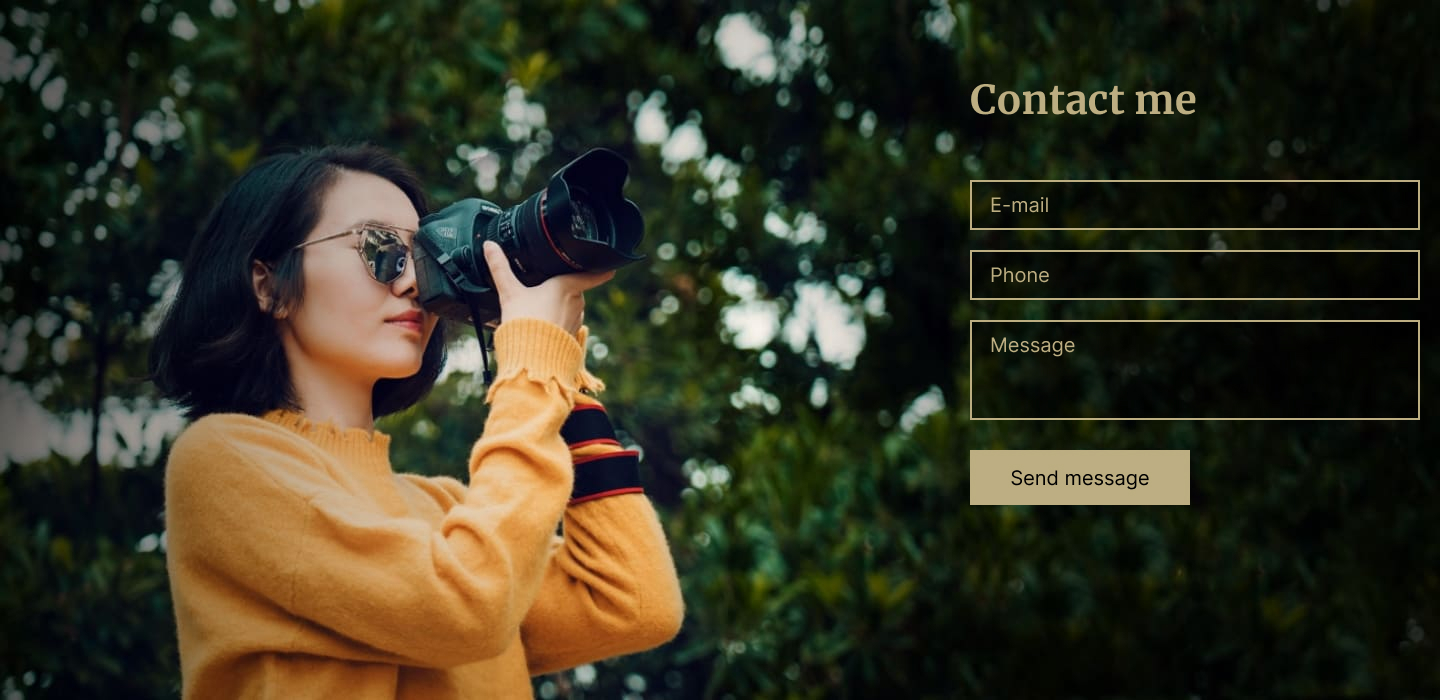
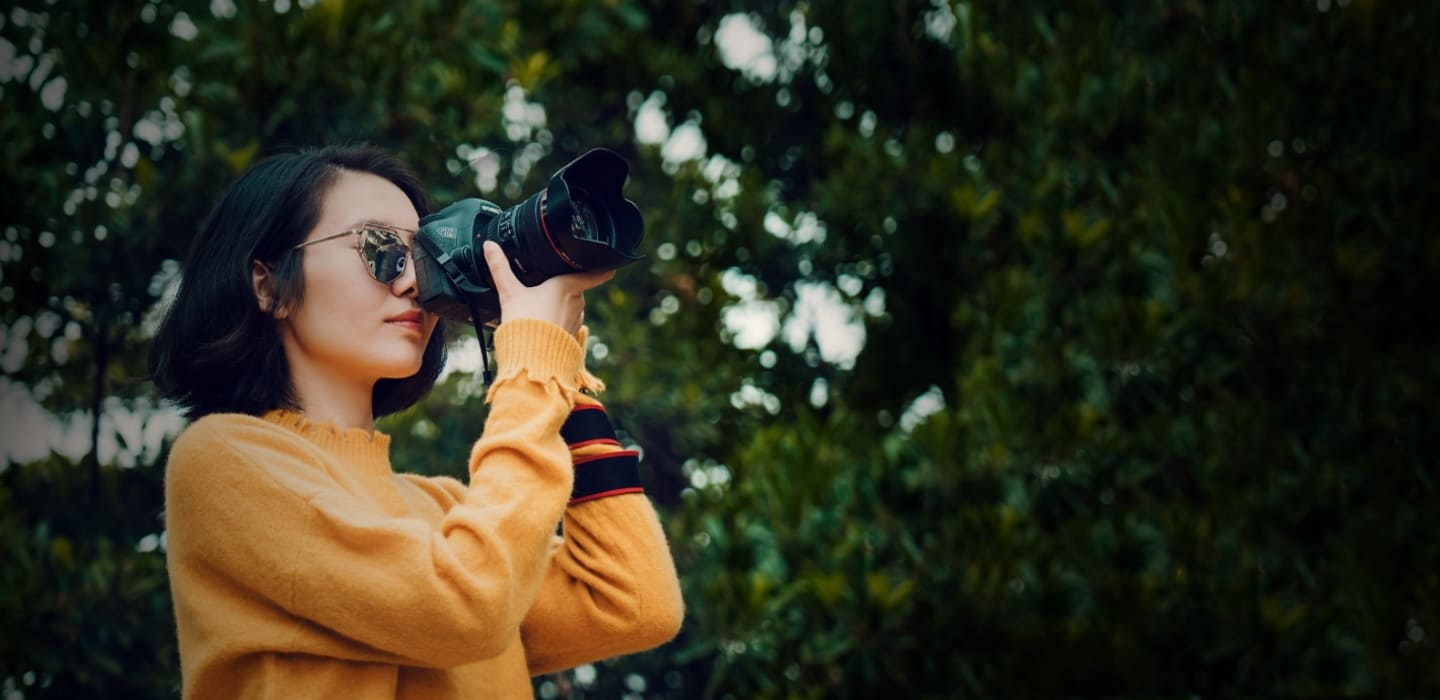
feat: start stage 2 portfolio

diff --git a/portfolio/asset/css/input.css b/portfolio/asset/css/input.css
@@ -71,7 +71,7 @@ p {
 
 
 .container {
-  width: 1440px;
+  max-width: 1440px;
   margin: 0 auto;
   padding: 0 20px;
   box-sizing: border-box;
@@ -154,7 +154,6 @@ p {
   background-size: contain;
   background-repeat: no-repeat;  
   transition: 0.3s;
-  margin-right: 780px;
   height: 50px;
 }
 
@@ -218,9 +217,8 @@ a:hover, a:focus, a:active {
 /* Hero styles start */
 
 .section__hero {
- background: url(../img/bg.png) no-repeat center 0;
+ background: url(../img/bg.jpg) no-repeat center 0;
   margin: 0 -20px; 
-  height: 910px;
 }
 
 .hero__box {
@@ -228,6 +226,7 @@ a:hover, a:focus, a:active {
   padding-top: 250px;
   height: 330px;
   max-width: 500px;
+  padding-bottom: 330px;
 }
 
 p.hero-text {
@@ -267,8 +266,12 @@ p.hero-text {
 
 /* skills styles start */
 
-.section__skills {
-  height: 482px;
+.skills__wraper {
+  display: flex;
+  flex-wrap: wrap;
+  justify-content: space-around;
+  align-items: center;
+  padding: 0px;
 }
 
 h2.section-title {
@@ -315,15 +318,6 @@ h2.section-title {
   right: -14px;
 }
 
-.skills__wraper {
-  display: flex;
-  flex-wrap: wrap;
-  /* justify-content: space-between; */
-  align-items: center;
-  padding: 0px;
-  height: 242px;
-}
-
 .skills__box {
   display: flex;
   flex-direction: column;
@@ -331,6 +325,7 @@ h2.section-title {
   max-width: 320px;
   height: 240px;
   align-items: center;
+  margin-bottom: 2px;
 }
 
 .skills__box:first-child {
@@ -371,6 +366,7 @@ p.text__box {
 
 .button-switcher {
   display: flex;
+  flex-wrap: wrap;
   justify-content: center;
   margin-bottom: 60px;
 }
@@ -416,14 +412,12 @@ p.text__box {
   flex-wrap: wrap;
   justify-content: space-between;
   gap: 25px;
-  max-height: 1145px;
-  /* align-content: space-between; */
 }
 
-.portfolio__img {
-  /* min-height: 560px; */
-  /* padding-top: 2px; */
-  /* padding-bottom: 0; */
+@media (max-width: 720px) {
+  .portfolio__imgs {
+    justify-content: space-around;
+  }
 }
 
 /* portfolio syles end */
@@ -440,21 +434,26 @@ p.text__box {
 }
 
 .section__video {
-  height: 945px;
+  
+
 }
 
 .img__video {
-
+  /* display: flex; */
+  width: 100%;
 }
 
 .video__play {
-  position: absolute;
+  /* display: flex; */
+  
   padding-top: 8px;
 }
 
 .button-play {
+  position: absolute;
   background-color: transparent;
   border: 0;
+  cursor: pointer;
 }
 
 .icon {
@@ -475,8 +474,8 @@ p.text__box {
 
 .price__container {
   display: flex;
+  flex-wrap: wrap;
   box-sizing: border-box;
-  /* margin-bottom: 100px; */
 }
 
 .price__box {
@@ -508,7 +507,6 @@ h3.price-title {
 }
 
 .button.button__gold {
-  /* padding: 8px 73px; */
   background-color: var(--gold-color);
   color: var(--bg-dark-color);
   margin: 0 112px;
@@ -555,27 +553,30 @@ h3.price-title {
 /* contacts syles start */
 
 .section__contacts {
-  display: flow-root;
-  min-height: 700px;
-  background: url(../img/contacts.png) no-repeat center;
+  background: url(../img/contacts.jpg) no-repeat center;
+  /* width: 100%; */
   background-size: cover;
+  /* margin-right: 20px; */
   margin: 0 -20px;
 }
 
 .contact__field {
-  position: relative;
-  left: 970px;
-  top: 60px;
-  width: 450px;
-  height: 445px;
+  display: flex;
+  justify-content: flex-end;
+  flex-wrap: wrap;
+  padding-top: 60px;
   margin-right: 20px;
+  padding-bottom: 195px;
+}
+
+.contact__field-inputs {
+  width: 450px;
 }
 
 .contact-title {
   width: 450px;
   height: 80px;
   margin-bottom: 40px;
-  /* text-align: start; */
 }
 
 h2.contact-title {
@@ -600,7 +601,7 @@ h2.contact-title {
   font-size: 20px;
   line-height: 40px;
   color: #BDAE82;
-  padding-left: 20px;
+  padding-left: 18px;
   margin-bottom: 20px;
 }
 
@@ -622,18 +623,21 @@ h2.contact-title {
   font-size: 20px;
   line-height: 40px;
   color: #BDAE82;
-  padding-left: 20px;
+  padding-left: 18px;
   margin-bottom: 26px;
+  
 }
 
-.message::placeholder {
+ .message::placeholder {
   font-family: Inter;
   font-style: normal;
   font-weight: normal;
   font-size: 20px;
   line-height: 40px;
   color: #BDAE82;
+  padding-top: 2px;
 }
+
 
 .input-form::placeholder {
   font-family: Inter;
@@ -642,14 +646,8 @@ h2.contact-title {
   font-size: 20px;
   line-height: 40px;
   color: #BDAE82;
-}
-
-input:-webkit-autofill,
-input:-webkit-autofill:hover,
-input:-webkit-autofill:focus,
-input:-webkit-autofill:active {
-  -webkit-text-fill-color: #bdae82;
-  transition: background-color 0s ease-in-out 9000s;
+  padding-top: 2px;
+  
 }
 
 /* contacts syles end */
@@ -686,8 +684,8 @@ input:-webkit-autofill:active {
   color: #FFFFFF
 }
 
-.left__block-item:hover, .left__block-item:visited,
-.left__block-item:focus {
+ .target:hover, .target:visited,
+ .target:focus {
   color: var(--gold-color);
   transition-duration: .5s;
 }
@@ -725,18 +723,30 @@ p.centre__block {
   height: 32px;
 }
 
-.right__block-img {
+a.right__block-img {
   display: flex;
   align-items: center;
-  padding-right: 20px;
 }
 
 .right__block {
    display: flex;
 }
 
-.right__block-img:last-child {
+ul.right__block-list {
+  display: flex;
+  flex-direction: row;
+  padding-left: 0;
+}
+
+
+.item {
+  display: flex;
+  align-items: center;
+  padding-right: 20px;
+}
+
+.right__block-list.item:last-child {
   padding-right: 0;
-} 
+}  
 
 /* footer syles end */

diff --git a/portfolio/index.html b/portfolio/index.html
@@ -140,13 +140,12 @@
           
             <img class='img__video' src="asset/img/video-player.jpg" alt="videopalyer">
         
-          <div class="video__play">
             <button class="button-play" type="submit">
               <svg class="icon">
                 <use xlink:href="asset/icon/Play_hover.svg#play"></use>
               </svg>
             </button>
-          </div>
+          
         </div>
       </section>
       <section class="section__price" id="price">
@@ -230,13 +229,15 @@
       </section>
       <section class="section__contacts" id="contacts">
         <div class="contact__field">
-          <h2 class="section-title contact-title">Contact me</h2>
-          <form>
-            <input type="email" placeholder="E-mail" class="input-form">
-            <input name="tel" type="tel" placeholder="Phone" class="input-form">
-            <textarea class="message"  name="text" placeholder="Message"></textarea>
-            <button type="submit" class="button button__gold" id="send">Send message</button>
-           </form>
+          <div class="contact__field-inputs">
+             <h2 class="section-title        contact-title">Contact me</h2>
+            <form>
+              <input type="email" placeholder="E-mail" class="input-form">
+              <input name="tel" type="tel" placeholder="Phone" class="input-form">
+              <textarea class="message"  name="text" placeholder="Message"></textarea>
+              <button type="submit" class="button button__gold" id="send">Send message</button>
+            </form>
+          </div>
         </div>
       </section>
     </div>
@@ -247,7 +248,7 @@
         <div class="left__block-item">&#169;</div>
         <div class="left__block-item">2022</div>
         <a target="_blank" class="my-github" href="//github.com/NagaevRoman">
-          <div class="left__block-item">github
+          <div class="left__block-item target">github
           </div>
         </a>
       </div>
@@ -257,18 +258,29 @@
           </p>
         </a>
       <div class="right__block">
-        <a target="_blank" href="//rs.school/js-stage0/" class="right__block-img">
-          <img src="asset/icon/instagram.svg" alt="Instagram Icon"  class="right__block-icon">
-        </a>
-        <a target="_blank" href="//rs.school/js-stage0/" class="right__block-img">
-          <img src="asset/icon/facebook.svg" alt="Facebook Icon"  class="right__block-icon">
-        </a>
-        <a target="_blank" href="//rs.school/js-stage0/" class="right__block-img">
-          <img src="asset/icon/twitter.svg" alt="Twitter Icon"  class="right__block-icon">
-        </a>
-        <a target="_blank" href="//rs.school/js-stage0/" class="right__block-img">
-          <img src="asset/icon/pinterest.svg" alt="Pinterest Icon"  class="right__block-icon">
-        </a>
+        <ul class="right__block-list">
+          <li class="right__block-list item">
+            <a target="_blank" href="//rs.school/js-stage0/" class="right__block-img">
+            <img src="asset/icon/instagram.svg" alt="Instagram Icon"  class="right__block-icon">
+            </a>
+          </li>
+          <li class="right__block-list item">
+            <a target="_blank" href="//rs.school/js-stage0/" class="right__block-img">
+              <img src="asset/icon/facebook.svg" alt="Facebook Icon"  class="right__block-icon">
+            </a>
+          </li>
+          <li class="right__block-list item"> 
+            <a target="_blank" href="//rs.school/js-stage0/" class="right__block-img">
+              <img src="asset/icon/twitter.svg" alt="Twitter Icon"  class="right__block-icon">
+            </a>
+          </li>
+          <li class="right__block-list item">
+            <a target="_blank" href="//rs.school/js-stage0/" class="right__block-img">
+              <img src="asset/icon/pinterest.svg" alt="Pinterest Icon"  class="right__block-icon">
+            </a>
+          </li>
+
+        </ul>
       </div>
     </div>
   </footer>
